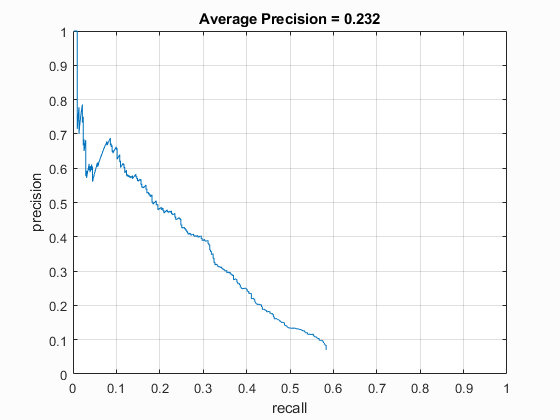
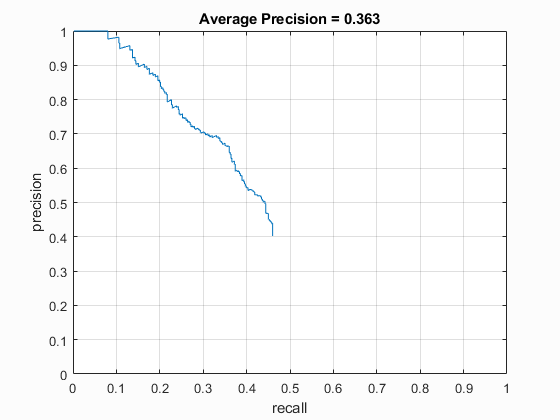
temp save

diff --git a/code_and_images/detect.m b/code_and_images/detect.m
@@ -14,6 +14,7 @@ thres = 0.3;
 load('my_svm.mat')
 
 for i=1:nImages
+    cla reset;
     % load and show the image
     im = im2single(imread(sprintf('%s/%s',imageDir,imageList(i).name)));
      imshow(im);
@@ -74,6 +75,7 @@ for i=1:nImages
                (pBox(3)-pBox(1)+1)*(pBox(4)-pBox(2)+1)-...
                iw*ih;
             overlap=iw*ih/ua;
+            disp(overlap)
             if (overlap > thres)
                 saveToggle = false;
                 [pRow,pCol] = ind2sub([size(feats,1) size(feats,2)],inds(n-pCount));
@@ -101,11 +103,12 @@ for i=1:nImages
             image_names = [image_names; image_name];
         end
     end
-    pause;
+    %
     fprintf('got preds for image %d/%d\n', i,nImages);
+    pause;
 end
 
-
+%%
 % evaluate
 label_path = 'test_images_gt.txt';
 [gt_ids, gt_bboxes, gt_isclaimed, tp, fp, duplicate_detections] = ...
@@ -132,7 +135,7 @@ load('my_svm.mat')
 for i=1:nImages
     % load and show the image
     im = im2single(imread(sprintf('%s/%s',imageDir,imageList(i).name)));
-    scales = [1,1/2,1/4,1/8];
+    scales = [1,1/2,1/4,1/8,1/16,1/32,1/64,1/128];
 
     for j=1:width(scales)
         imResized = imresize(im,scales(j));
@@ -161,7 +164,7 @@ for i=1:nImages
         end
         % get the most confident predictions 
         [~,inds] = sort(confs(:),'descend');
-        bestPredicts = 20;
+        bestPredicts = 40;
         if (bestPredicts > length(inds))
             bestPredicts = length(inds);
         end
@@ -170,7 +173,7 @@ for i=1:nImages
         for n=1:numel(inds)        
             [row,col] = ind2sub([size(feats,1) size(feats,2)],inds(n));
             conf = confs(row,col);            
-            if (conf < 0.7)
+            if (conf < 0.90)
                 continue
             end
             
@@ -194,7 +197,7 @@ end
 
 [sortedConfs, oIndx] = sort(confidences, 'descend');
 finalBBoxes = zeros(0,5);
-
+boxName = cell(100000,2);
 for i=1:height(sortedConfs)
     curBB = zeros([1,5]);
     curBB(1:4) = bboxes(oIndx(i),:);
@@ -213,19 +216,24 @@ for i=1:height(sortedConfs)
                (pBox(3)-pBox(1)+1)*(pBox(4)-pBox(2)+1)-...
                iw*ih;
             overlap=iw*ih/ua;
-            if (overlap > thres)
+            disp(overlap)
+            if (overlap > 0.2)
                 saveToggle = false;
                 break;
-            elseif (iw*ih == (curBB(3)-curBB(1)+1) * (curBB(4)-curBBbi(2)+1))
+            elseif (iw*ih == (curBB(3)-curBB(1)+1) * (curBB(4)-curBB(2)+1) || iw*ih == (pBox(3)-pBox(1)+1) * (pBox(4)-pBox(2)+1))
                 saveToggle = false;
                 break;
             end
             
         end
     end
+    
     if (saveToggle)
         curBB(5) = oIndx(i);
         finalBBoxes = [finalBBoxes; curBB];
+        boxName(i,:) = {(curImName{1,1}),curBB};
+    else
+        disp("false")
     end
 end
 

diff --git a/code_and_images/train_svm.m b/code_and_images/train_svm.m
@@ -4,7 +4,7 @@ load('pos_neg_feats_train.mat')
 feats = cat(1,pos_feats,neg_feats);
 labels = cat(1,ones(pos_nImages,1),-1*ones(neg_nImages,1));
 
-lambda = 0.1;
+lambda = 0.00001;
 [w,b] = vl_svmtrain(feats',labels',lambda);
 
 fprintf('Classifier performance on train data:\n')
